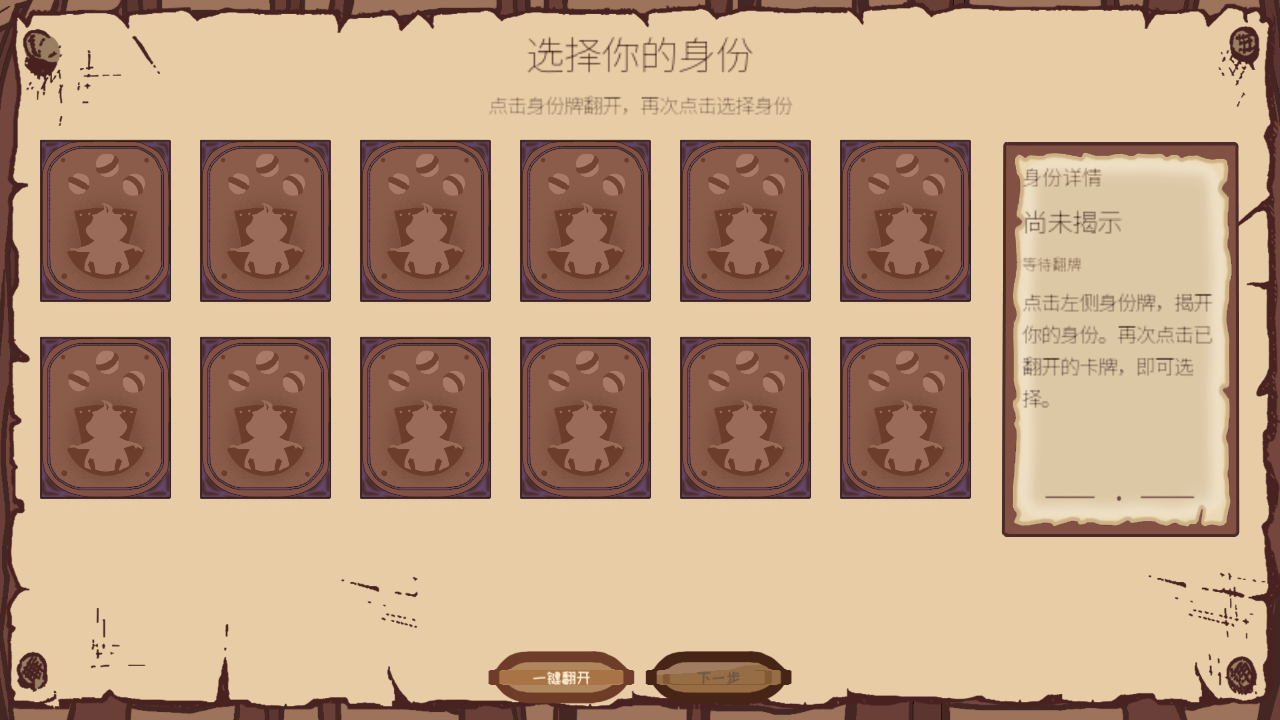
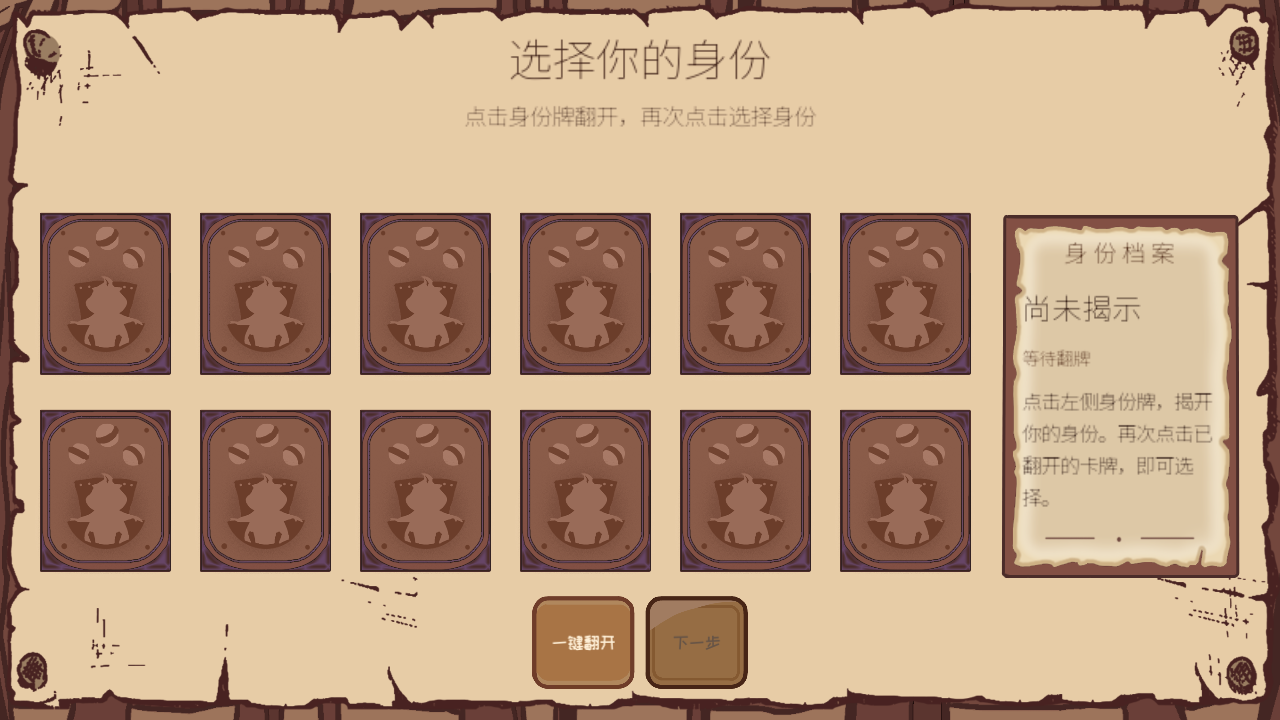
fix(identity): rebalance cards, preserve button proportions and ink card names

diff --git a/docs/1. Identify/身份系统_ID-16-VISUAL-FIX_2026-10-20_log.md b/docs/1. Identify/身份系统_ID-16-VISUAL-FIX_2026-10-20_log.md
@@ -1,25 +1,28 @@
-# 身份系统 ID-16-VISUAL-FIX · 2026-10-20
+# 身份系统 ID-16-VISUAL-FIX · 2026-10-20（二次视觉返工）
 
-## 基线与范围
-- 从最新 main（开发开工时 52572092，已包含 PR #325）独立分支 fix/id16-identity-parchment-ui-20261020 开发。
-- 仅修改 `ui/identity_setup/identity_selection.gd`、`.tscn`，保持 IdentityOptions / selection_changed / next_requested 与 ID-09 存档接口原样。
-- 原本 D:\Godot\Empty-start 的未提交修改保持不变；全部工作与 Godot 缓存在 D 盘独立工作树进行。
+## 基线与提交范围
+- 从已合并 #325 的 `main` 建立 PR #327，分支 `fix/id16-identity-parchment-ui-20261020`，本次继续在同一分支调整。
+- 唯一运行文件：`ui/identity_setup/identity_selection.gd`、`ui/identity_setup/identity_selection.tscn`。未改身份业务配置、其他 Agent 的工作树和保存逻辑。
 
-## 实现
-1. 正式羊皮纸背景上的深色覆盖透明度从 0.68 降到 0.06，标题与操作提示采用深褐色。
-2. 卡背完整显示素材，移除 12 张卡上遮挡图案的「身份牌/点击翻开」叠字；页面顶部统一给出翻开与再次选择说明。翻牌前详情暂不透露该卡的真实身份与文案。
-3. 底部「一键翻开」用 `assets/ui/buttons/button_secondary.png`， 「下一步」用 `assets/ui/buttons/button_primary.png`，引用原图实际有色区域并以九宫格适配水平按钮；完整处理正常、悬停、按下、禁用状态和文本颜色。
-4. 右侧详情把 `assets/ui/identity/cards/identity_card_front_00_blank.png` 作为 StyleBoxTexture 底板，保留原画边框；独立 DetailsHolder 限制卡片实际高度为 420，随窗口宽度调节宽度。正文采用深墨色以提升可读性。
-5. 修复 1920×1080 时卡片最小宽度反向扩张布局的问题：列宽从实际物理视口可用宽度计算；卡片与详情分区保留 6×2 和小窗口滚动行为。布局信号按帧合并，避免重复排版。
+## 第一版已具备
+- 资源直接引用：`assets/ui/buttons/button_primary.png` / `button_secondary.png`、`assets/ui/identity/cards/identity_card_front_00_blank.png`。
+- 羊皮纸背景的暗色遮罩 0.68 → 0.06；移除卡背冗余叠字；翻牌前身份详情隐藏真实身份；保留 6×2 同屏卡、焦点和单选语义。
+- 在 1280×720、1920×1080 根据可用宽度约束卡片尺寸，避免布局溢出。
 
-## 最小验证
-- 实际 Godot 4.7.2.stable.steam（Windows OpenGL3）载入正式 `IdentitySelection` 场景，在 1280×720 和 1920×1080 两种真实窗口尺寸运行。
-- 每种分辨率均确认 12 张身份卡存在；运行演示了未翻开状态、使用现有全翻逻辑及选择第 1 张身份卡。关键截图：
-  - `evidence/ID-16-VISUAL-FIX_2026-10-20/identity_1280x720_back.png`
-  - `evidence/ID-16-VISUAL-FIX_2026-10-20/identity_1280x720_selected.png`
-  - `evidence/ID-16-VISUAL-FIX_2026-10-20/identity_1920x1080_selected.png`
-- 运行日志包含两次 `ID16_SCREENSHOT_* status=0`；实际 Godot 渲染与 GDScript 解析通过，无目标脚本错误。
-- 修改范围局限于身份选择页面；尚未进行完整身份创建与存档流程、Android 真机及最终真人美术审查。请保留 PR 待用户视觉验收。
+## 二次视觉返工
+1. 主内容整体下移：标题引导后添加约 50px 的空间，将两排卡及右侧档案作为单独视觉组合，减轻过度顶边与底部留白。
+2. 取消身份卡下缘外贴的纯色标题条：名称用真实深棕色、`ZCOOLKuaiLe` 字体写到空卡片纸面内，与原素材底边装饰保留独立间距。
+3. 主、次按钮分别使用素材的有效像素裁切，并按源图约 1.09:1 比例整体缩放至 154×140；取消原先横向九宫格扁平拉伸，保持默认、悬停、按下、禁用状态和相应文字对比。
+4. 右侧延用空白卡牌素材，内容明确命名为「身份档案」；依据正式内容区可用高度自适应详情板长度（最高 620px），令其跨越两排卡牌，避免像第 13 张卡片。
+5. 提升顶部标题字号至 44、引导至 22，右侧身份名称字号 30、状态 17；版面只在既有场景中改变。
+
+## 验证
+- Godot `4.7.2.stable.steam` Windows OpenGL 3 实际运行两档：1280×720、1920×1080；截图均来自正式 `IdentitySelection` 节点实例（非人工合成）。
+- `identity_1280x720_back.png`：未翻开 12 卡、主次按钮。
+- `identity_1280x720_selected.png`：全翻开并选中第一个身份。
+- `identity_1920x1080_selected.png`：完整大分辨率布局，右侧说明、纸面卡名和底部导航无裁切。
+- `tests/_id16_visual_workflow_check_tmp.gd` 是本地短期验证脚本，不提交仓库。执行回执：`ID16_VISUAL_REWORK_FUNCTION_PASS 12 cards / flip / select / confirm state / reveal-all`。
+- 范围仅 UI：未测试完整跨页身份建立、存档、Android 触控；保留 PR Draft 等待真人美术验收。
 
 ## 交接
-本 PR 的每张实际截图已附到仓库，可直接打开查看，不依赖本机路径。审美确认后由总控决定合并；若需微调，仅调整 `_button_style` 的九宫格边界、`_configure_detail_panel` 的内容边距和顶部文案样式。
+代码与三张真正 Godot 截图均在 PR #327。该 PR 为视觉候选，不由自动化截图数替代策划的通过判定。
